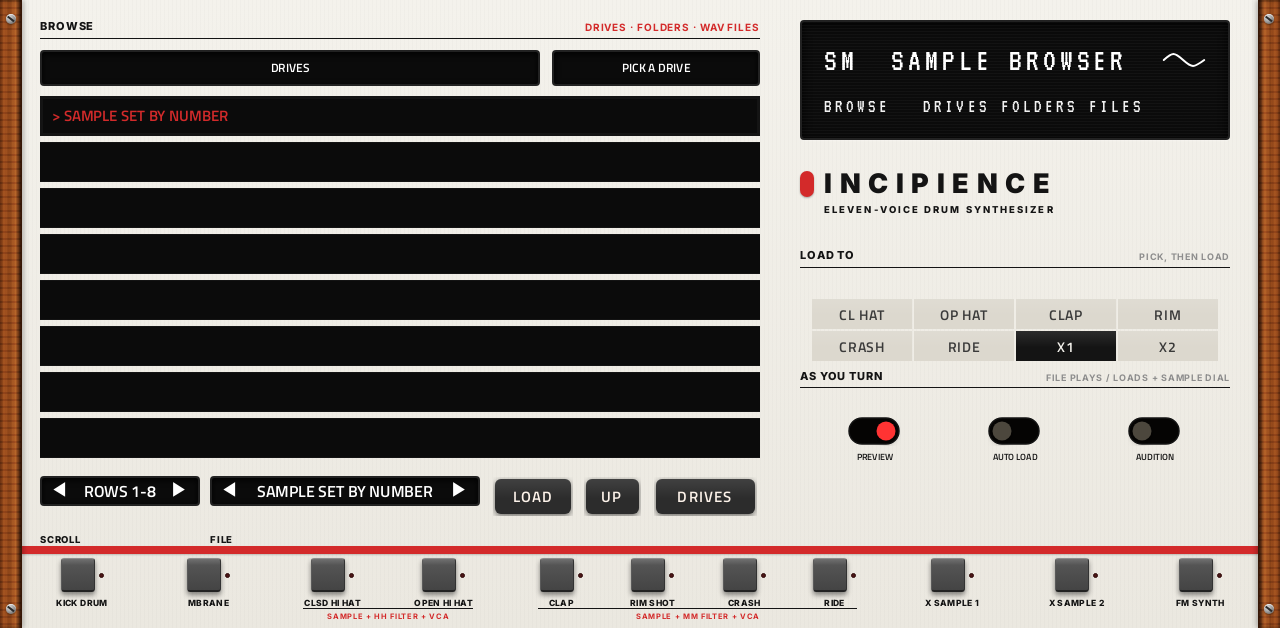
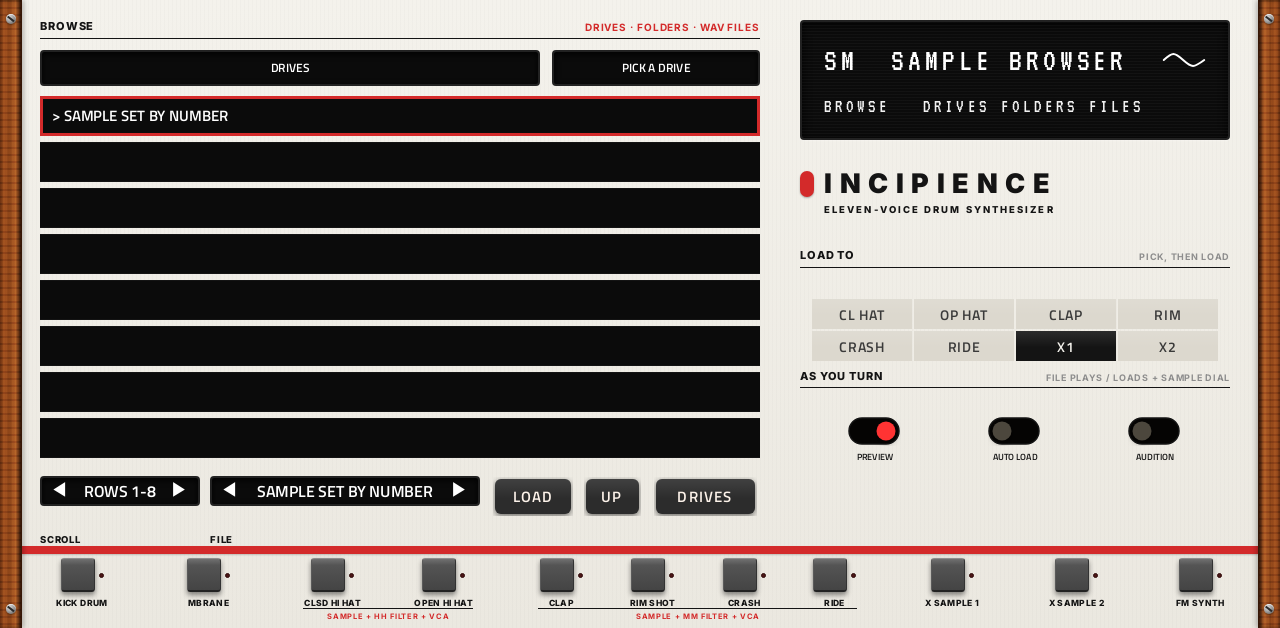
Incipience browser: the wheel after any tap on the list; white text, the cursor's row in red
Owner, 2026-10-20, on the 1.1.0 drafts: "the main wheel does not scroll through the files in the browser. i need
to use the rows button to look and that's a bad user experience. also make the font white and not red".
The rows had no Q-Link touch action, so a tap on one left MPC's data wheel where it was, and the cursor's
border (the active segment colour, 141414) hardly showed on the black list. The list now has
wheel=br_cursor ink=ffffff lit=d32a2a. check_skin OK, tools/build.sh PASSED, check.sh PASSED.

Changed region(s): [[0.0312, 0.1513, 0.5938, 0.242]]

diff --git a/originals/incipience/mpc/design.py b/originals/incipience/mpc/design.py
@@ -169,7 +169,10 @@ def matrix(rows, P, inst_name, diag=()):
 BROWSER_LINES = [
     "readout cx=290 cy=154 w=488 h=32 vs=20 box=no style=dotmatrix key=br_path",
     "readout cx=656 cy=154 w=196 h=32 vs=20 box=no style=dotmatrix key=br_status",
-    "list x=40 y=182 w=720 h=362 key=br_row cols=1 rows=8 th=40 gap=6",
+    # white text, the cursor's row in a red border (owner, 2026-10-20: "make the font white and not red"); touching a
+    # row hands the data wheel to FILE, so the wheel moves the cursor after any tap on the list ("the main wheel does
+    # not scroll through the files")
+    "list x=40 y=182 w=720 h=362 key=br_row cols=1 rows=8 th=40 gap=6 wheel=br_cursor ink=ffffff lit=d32a2a",
 ]
 
 

diff --git a/originals/incipience/README.md b/originals/incipience/README.md
@@ -154,6 +154,9 @@ MBrane, metal noise through the filters, the self-oscillating filters and the FM
 
 ## Your own samples: the SAMPLES tab
 
+(How it's built, the MPC facts behind it and how to reuse it in another plugin:
+[docs/sample-browser.md](https://github.com/saustin2010/vst_instruments/blob/main/docs/sample-browser.md).)
+
 Any folder of WAV files on the MPC: its internal drive, an SD card, an SSD, a USB drive, or a `samples` folder you make
 in the plugin's data folder (`incipience/samples/` next to `incipience.so`).
 
@@ -168,8 +171,10 @@ the data wheel alone goes through all of it.
   order), each under a heading with its name from the folder you opened (`Kicks /`, `Kicks/Hard /`). Folders without a
   WAV file aren't listed. When a folder holds too much for one list (more than 999 rows, or more than 256 folders to
   look through, as a drive's top level often does), it's listed as before: its subfolders, then its own files.
-- **The cursor (FILE):** its row is lit, and the FILE box under the list shows its name. Move it with the **data
-  wheel** (tap the FILE box once), **Q-Link 1** or the box's arrows, one file at a time: it steps over the headings,
+- **The cursor (FILE):** its row has a red border (the list's text is white), and the FILE box under the list shows its
+  name. Move it with the **data wheel**: MPC's wheel turns the control touched last, and touching any row (or the
+  FILE box) hands it to the cursor (owner, 2026-10-20: "the main wheel does not scroll through the files"). Or use
+  **Q-Link 1**, no touch needed, or the box's arrows. It moves one file at a time and steps over the headings,
   from one folder's last file to the next one's first. **SCROLL** (Q-Link 2, or its arrows) moves a page at a time,
   taking the cursor along. With **PREVIEW** on, each file plays as the cursor lands on it, straight from the folder:
   no instrument, no effects, at Incipience's VOLUME, until it ends or the cursor moves on.

diff --git a/ROADMAP.md b/ROADMAP.md
@@ -189,7 +189,12 @@ parameter index, so existing projects keep working.
     opens that folder; LOAD TO only moves the list when its folder isn't listed; AUTO LOAD (new switch, Q-Link 6): the
     file FILE lands on loads into LOAD TO's instrument. 736 parameters. Offline: self-test PASSED (native, ASan/UBSan,
     TSan), `tools/build.sh` PASSED, `check_skin.py` OK. Found on the way (UBSan): the sine table's lookup read one past
-    its end when a phase a hair under 0 wrapped to 1 (fixed)
+    its end when a phase a hair under 0 wrapped to 1 (fixed). Then (owner, 2026-10-20, on the 1.1.0 drafts: "the main
+    wheel does not scroll through the files in the browser. i need to use the rows button to look", "make the font
+    white and not red"): the list's rows had no `Q-Link` touch action, so a tap on a row left the wheel elsewhere, and
+    the cursor's border was near-black on black. The skin's `list` takes `wheel=br_cursor` (a row's touch hands the
+    wheel to FILE; `framework/mpc-vst-plugins.patch`), `ink=ffffff`, `lit=d32a2a`. How it all works, for other
+    plugins: [docs/sample-browser.md](docs/sample-browser.md). To check on the Live II: the wheel after a row tap
   - [ ] **In sd88me's catalogue**: entries `incipience` and `incipience-out` proposed in
     [sd88me/mpc-vst-plugins#480](https://github.com/sd88me/mpc-vst-plugins/pull/480) (2026-10-19; `catalog_build` on
     both: 0 problems), waiting for his merge
